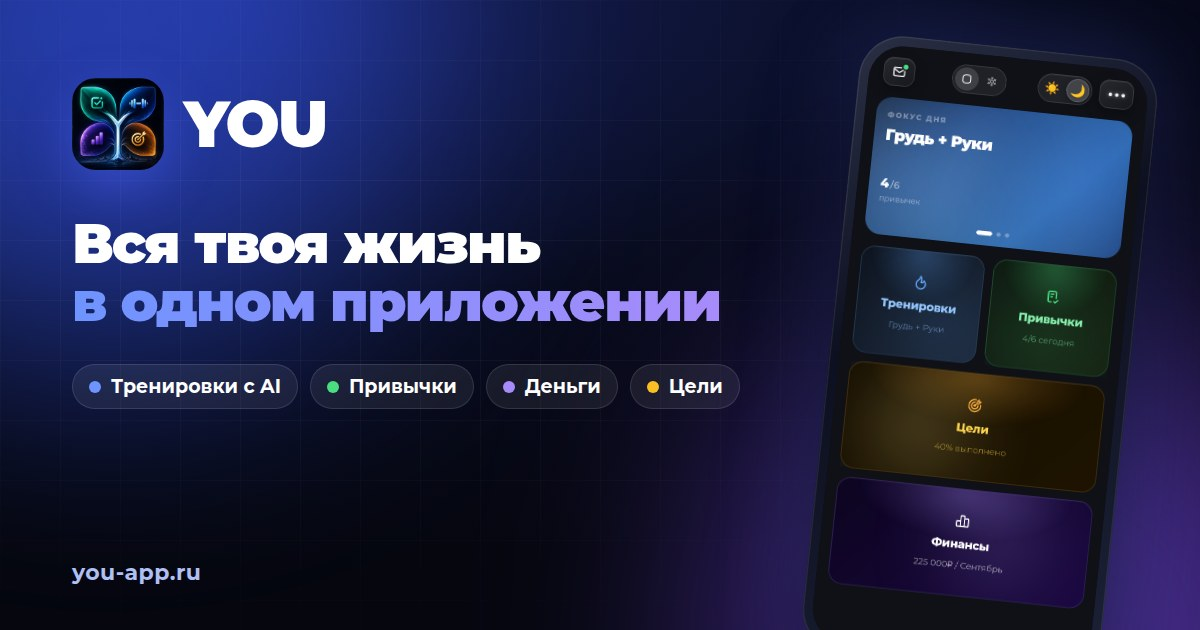
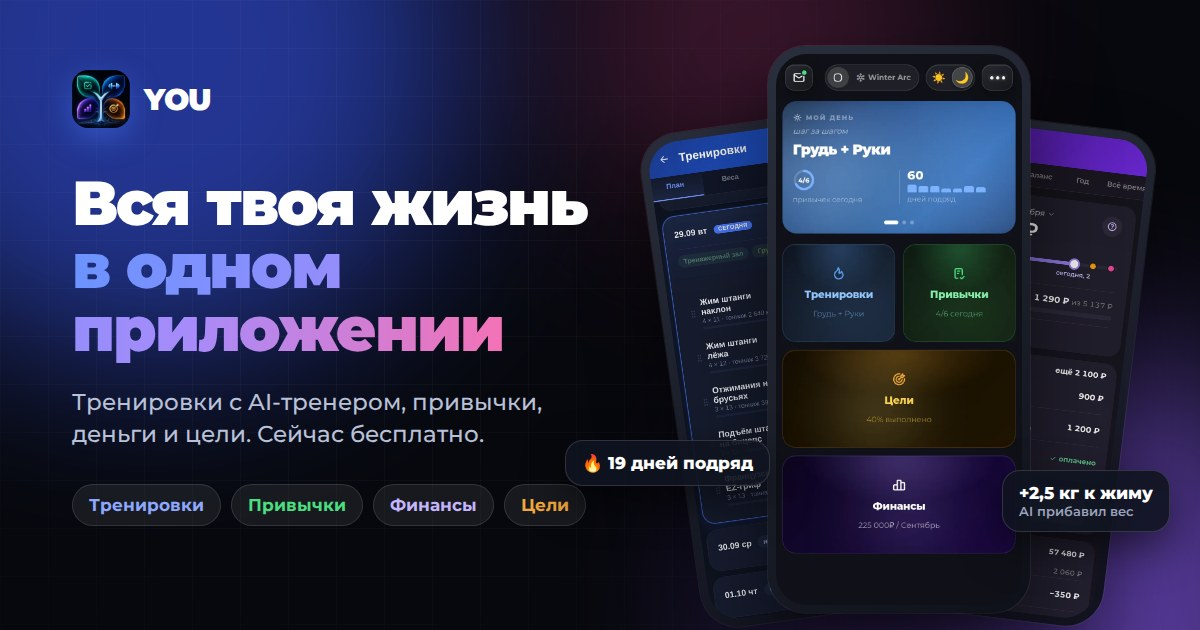
Лендинг v2: живой чат с AI, орбита клиентов, ленты экранов, манифест, новые тексты и превью
- AI-тренер: в телефоне идёт живой диалог («колено ноет», «жим стоит»), после ответа меняется карточка плана
- Тренерам: клиенты плывут по орбите вокруг кабинета, по очереди подсвечиваются
- «Всё это уже работает»: две ленты экранов едут в разные стороны при прокрутке
- Манифест «Зачем YOU»: слова проявляются при прокрутке
- Тексты: короче и под новые функции (вес одной кнопкой, серия как в Duolingo, помощник, цель в платежи, расписание у клиента, новая формула «Свободно»)
- Ровный текст на телефоне: неразрывные пробелы после предлогов, балансировка заголовков, заголовок первого экрана меньше на узких экранах, списки функций в одну колонку
- Новая картинка превью ссылки (og-you.jpg?v=2)

Claude-Session: https://claude.ai/code/session_016pRHzteEXK6Z1ptN93seuv

diff --git a/start.html b/start.html
@@ -35,11 +35,11 @@
 <meta property="og:url" content="https://you-app.ru/start">
 <meta property="og:title" content="YOU · вся твоя жизнь в одном приложении">
 <meta property="og:description" content="Тренировки с AI-тренером, привычки, деньги и цели. Сейчас бесплатно.">
-<meta property="og:image" content="https://you-app.ru/img/og-you.jpg">
+<meta property="og:image" content="https://you-app.ru/img/og-you.jpg?v=2">
 <meta property="og:image:width" content="1200">
 <meta property="og:image:height" content="630">
 <meta name="twitter:card" content="summary_large_image">
-<meta name="twitter:image" content="https://you-app.ru/img/og-you.jpg">
+<meta name="twitter:image" content="https://you-app.ru/img/og-you.jpg?v=2">
 <meta name="theme-color" content="#07090F">
 <link rel="icon" href="favicon.ico" sizes="any">
 <link rel="icon" type="image/png" sizes="32x32" href="img/fav/tab-32.png">
@@ -692,6 +692,96 @@ footer{border-top:1px solid var(--line);padding:34px 0 calc(34px + env(safe-area
 .m-shot{display:none;width:100%;max-width:300px;margin:0 auto}
 .m-shot .phone{position:relative;width:100%}
 @media (max-width:560px) and (max-height:720px){.ins-phone-wrap{height:380px}.ins-phone{transform:scale(.58)}.merge-scene{height:40vh}}
+
+/* ═══ v2: живой чат с AI, орбита клиентов, ленты экранов, текст по словам ═══ */
+/* AI: живой диалог в телефоне + карточка плана, которая меняется */
+.aid{position:relative;height:640px;display:flex;align-items:center;justify-content:center}
+@media (min-width:981px){.ai-x{align-items:start}.ai-x .aid{position:sticky;top:90px}}
+.aid .phone{position:relative;width:300px;z-index:2}
+.aid-scr{display:flex;flex-direction:column;background:#0E1220!important}
+.aid-top{display:flex;align-items:center;gap:10px;white-space:nowrap;padding:46px 16px 12px;background:linear-gradient(180deg,#2C4FA8,#22408C);color:#fff;font-weight:800;font-size:15px}
+.aid-top i{font-size:18px;opacity:.8}.aid-top span{margin-left:auto;font-size:11px;font-weight:700;padding:3px 8px;border-radius:999px;background:rgba(255,255,255,.16)}
+.aid-list{flex:1;display:flex;flex-direction:column;justify-content:flex-end;gap:8px;padding:12px 12px 6px;overflow:hidden}
+.aid-m{max-width:86%;padding:9px 12px;border-radius:16px;font-size:12.5px;line-height:1.45;opacity:0;transform:translateY(10px) scale(.98);transition:opacity .4s,transform .5s var(--ease)}
+.aid-m.on{opacity:1;transform:none}
+.aid-m.me{align-self:flex-end;background:#3A62C9;color:#fff;border-bottom-right-radius:5px}
+.aid-m.bot{align-self:flex-start;background:#1B2236;border:1px solid rgba(255,255,255,.07);color:#E6EAF5;border-bottom-left-radius:5px}
+.aid-m b{color:#fff}
+.aid-dots{display:inline-flex;gap:4px;padding:2px 0}.aid-dots i{width:6px;height:6px;border-radius:50%;background:#8EA8FF;animation:aidDot 1s infinite}.aid-dots i:nth-child(2){animation-delay:.15s}.aid-dots i:nth-child(3){animation-delay:.3s}
+@keyframes aidDot{0%,80%,100%{opacity:.3;transform:none}40%{opacity:1;transform:translateY(-3px)}}
+.aid-in{display:flex;align-items:center;gap:8px;margin:6px 10px 16px;padding:10px 12px;border-radius:14px;background:#161C2C;border:1px solid rgba(255,255,255,.08);font-size:12.5px;color:#E6EAF5;min-height:40px}
+.aid-in span{flex:1;min-width:0;white-space:nowrap;overflow:hidden;text-overflow:ellipsis}.aid-in span:empty::before{content:'Спроси тренера…';color:#5D6680}
+.aid-in i{width:28px;height:28px;border-radius:9px;background:#3A62C9;color:#fff;display:inline-flex;align-items:center;justify-content:center;font-size:15px;flex-shrink:0}
+.aid-plan{position:absolute;right:-30px;top:120px;z-index:3;width:250px;padding:14px;border-radius:20px;background:rgba(18,23,38,.92);border:1px solid rgba(110,139,255,.35);backdrop-filter:blur(14px);-webkit-backdrop-filter:blur(14px);box-shadow:0 24px 60px rgba(0,0,0,.5)}
+.aid-plan-h{display:flex;align-items:center;gap:8px;font-size:12px;color:var(--soft);font-weight:700;margin-bottom:8px}.aid-plan-h i{color:#8EA8FF;font-size:16px}.aid-plan-h b{color:#fff}
+.aid-row{display:flex;justify-content:space-between;gap:8px;padding:7px 0;border-top:1px solid rgba(255,255,255,.06);font-size:12px;transition:background .4s}
+.aid-row:first-of-type{border-top:none}.aid-row span{color:#D7DCEA;min-width:0}.aid-row b{white-space:nowrap;color:#fff}
+.aid-row.swap{animation:aidSwap 1.6s var(--ease)}
+@keyframes aidSwap{0%{background:transparent}20%{background:rgba(74,222,128,.18)}100%{background:transparent}}
+.aid-row.swap b{color:#4ADE80}
+.aid-tag{position:absolute;left:-10px;top:70px;z-index:3}
+
+/* Тренерам: клиенты на орбите вокруг кабинета */
+.orbit{position:relative;width:min(520px,100%);aspect-ratio:1;margin:0 auto;--R:200px}
+.orbit .ring{position:absolute;inset:6%;border-radius:50%;border:1px dashed rgba(139,92,246,.35)}
+.orbit .ring.r2{inset:22%;border-style:solid;border-color:rgba(74,124,255,.18)}
+.orb-core{position:absolute;left:50%;top:50%;transform:translate(-50%,-50%);width:150px;height:150px;border-radius:50%;display:flex;flex-direction:column;align-items:center;justify-content:center;gap:4px;text-align:center;background:radial-gradient(circle at 50% 35%,rgba(74,124,255,.35),rgba(20,24,40,.95) 70%);border:1px solid rgba(139,92,246,.45);box-shadow:0 0 60px rgba(74,124,255,.35);z-index:2}
+.orb-core img{width:44px;height:44px;border-radius:13px}.orb-core b{font-size:15px}.orb-core small{font-size:11.5px;color:var(--soft)}
+.orb-spin{position:absolute;inset:0}
+.orb-n{position:absolute;left:50%;top:50%;width:0;height:0;will-change:transform}
+.orb-n>div{position:absolute;transform:translate(-50%,-50%);display:flex;align-items:center;gap:8px;padding:7px 12px 7px 7px;border-radius:999px;background:rgba(18,22,34,.92);border:1px solid var(--line2);white-space:nowrap;box-shadow:0 10px 30px rgba(0,0,0,.4);transition:border-color .4s,box-shadow .4s}
+.orb-n .av{width:30px;height:30px;border-radius:50%;display:inline-flex;align-items:center;justify-content:center;font-weight:800;font-size:13px;color:#fff;background:var(--c);flex-shrink:0}
+.orb-n b{display:block;font-size:12.5px}.orb-n small{display:block;font-size:11px;color:var(--soft)}
+.orb-n.hot>div{border-color:var(--c);box-shadow:0 0 0 4px color-mix(in srgb,var(--c) 25%,transparent),0 10px 30px rgba(0,0,0,.4)}
+@keyframes orbSpin{to{transform:rotate(360deg)}}
+
+/* Ленты экранов: едут в разные стороны при прокрутке */
+.lanes-sec{padding:70px 0 60px;overflow:hidden}
+.lanes{display:flex;flex-direction:column;gap:14px;margin-top:40px}
+.lane{display:flex;gap:14px;width:max-content;will-change:transform}
+.lane img{width:200px;aspect-ratio:390/844;object-fit:cover;object-position:top;border-radius:26px;border:1px solid rgba(255,255,255,.08);box-shadow:0 20px 40px rgba(0,0,0,.35);background:#11141C}
+
+/* Текст проявляется по словам при прокрутке */
+.manifest{padding:90px 0}
+.manifest p{max-width:860px;margin:0 auto;text-align:center;font-size:clamp(24px,3.4vw,42px);line-height:1.3;font-weight:800;letter-spacing:-.02em;text-wrap:balance}
+.manifest .w{opacity:.16;transition:opacity .25s}
+.manifest .w.on{opacity:1}
+.manifest .w.g{background:var(--grad);-webkit-background-clip:text;background-clip:text;color:transparent}
+
+/* Ровный текст на телефоне: без висячих предлогов и рваных строк */
+h1,h2,h3,h4{text-wrap:balance}
+p,li,.sec-lead,.lead{text-wrap:pretty;hyphens:manual;-webkit-hyphens:manual;overflow-wrap:normal;word-break:normal}
+
+@media (max-width:980px){
+  .ai-x{display:flex!important;flex-direction:column;gap:0}
+  .ai-x>div:first-child{display:contents}
+  .ai-x .eyebrow{order:1;align-self:flex-start}.ai-x h2{order:2}.ai-x .sec-lead{order:3}.ai-x .aid{order:4;margin:26px 0 8px}.ai-x .ai-card{order:5}
+  .aid{height:auto;flex-direction:column}
+  .aid .phone{width:260px}
+  .aid-top span{display:none}
+  .aid-plan{position:relative;right:auto;top:auto;margin:14px auto 0;width:min(300px,92%)}
+  .orbit{--R:min(150px,36vw)}
+  .orbit{aspect-ratio:1/1.12}
+  .orb-core{width:96px;height:96px;gap:2px}.orb-core img{width:30px;height:30px;border-radius:9px}.orb-core b{font-size:12px}.orb-core small{font-size:10px}
+  .orb-n>div{padding:4px 9px 4px 4px;gap:6px}.orb-n .av{width:24px;height:24px;font-size:11px}.orb-n b{font-size:11px}.orb-n small{font-size:9.5px}
+  .lane img{width:140px;border-radius:20px}
+  .lanes{gap:10px}.lane{gap:10px}
+  .manifest{padding:60px 0}
+}
+@media (max-width:400px){ .aid .phone{width:240px} }
+@media (max-width:430px){ h1{font-size:clamp(30px,9vw,36px)} }
+@media (max-width:560px){
+  .coach-sec .ai-feats{grid-template-columns:1fr!important;gap:8px!important}
+  .coach-sec .ai-feat{display:grid;grid-template-columns:28px 1fr;column-gap:12px;align-items:start;padding:12px 14px!important}
+  .coach-sec .ai-feat i{grid-row:span 2;font-size:20px;margin-top:2px}
+  .coach-sec .ai-feat b{margin:0 0 2px!important;font-size:14px!important}
+  .coach-sec .ai-feat span{font-size:12.5px!important;line-height:1.45!important}
+  #ai .ai-feats{grid-template-columns:1fr;gap:8px}
+  #ai .ai-feat{display:grid;grid-template-columns:28px 1fr;column-gap:12px;align-items:start;padding:12px 14px}
+  #ai .ai-feat i{grid-row:span 2;font-size:20px;margin-top:2px}
+  #ai .ai-feat b{margin:0 0 2px}
+}
+
 @media (prefers-reduced-motion:reduce){*,*::before,*::after{animation:none!important;transition:none!important}.rv{opacity:1;transform:none;filter:none}h1 .line span{transform:none}.lead,.hero-cta,.hero-note{opacity:1}}
 </style>
 </head>
@@ -813,29 +903,29 @@ footer{border-top:1px solid var(--line);padding:34px 0 calc(34px + env(safe-area
       <div class="step" data-img="training_plan" data-glow="#4A7CFF" style="--c:#60A5FA;--glow:rgba(74,124,255,.4)">
         <div class="step-ico" style="background:rgba(74,124,255,.16);color:#8EA8FF"><i class="ti ti-barbell"></i></div>
         <h3>Тренировки,<br>которые растут вместе с тобой</h3>
-        <p>План на 8 недель. Каждый подход записан, а прогресс считается сам: сколько поднял за неделю, как вырос вес, рабочий вес по каждому упражнению.</p>
-        <ul class="ticks"><li><i class="ti ti-check"></i>Силуэт показывает, какие мышцы работают</li><li><i class="ti ti-check"></i>Вес с прошлой тренировки подставляется сам</li><li><i class="ti ti-check"></i>Зал, бег, теннис, шаги, растяжка</li><li><i class="ti ti-check"></i>Калькулятор максимума на один раз</li></ul>
+        <p>План на 8 недель. Записываешь подходы, а прогресс считается сам: сколько поднял за неделю и как растёт рабочий вес в каждом упражнении.</p>
+        <ul class="ticks"><li><i class="ti ti-check"></i>Силуэт показывает, какие мышцы работают</li><li><i class="ti ti-check"></i>Вес прошлого раза одной кнопкой</li><li><i class="ti ti-check"></i>Зал, бег, теннис, шаги, растяжка</li><li><i class="ti ti-check"></i>Калькулятор максимума на один раз</li></ul>
         <div class="m-shot"><div class="phone"><div class="scr"><img src="img/landing/training_plan.webp" alt="" loading="lazy"></div></div></div>
       </div>
       <div class="step" data-img="habits_grid" data-glow="#22C55E" style="--c:#4ADE80;--glow:rgba(34,197,94,.35)">
         <div class="step-ico" style="background:rgba(34,197,94,.16);color:#4ADE80"><i class="ti ti-checklist"></i></div>
         <h3>Привычки,<br>которые не отпускают</h3>
-        <p>Отмечай одним касанием. Серия дней растёт с каждой отметкой, а процент за месяц честно показывает, что подтянуть.</p>
-        <ul class="ticks"><li><i class="ti ti-check"></i>Каждый день, по будням или 3 раза в неделю</li><li><i class="ti ti-check"></i>Серии дней подряд с огоньком</li><li><i class="ti ti-check"></i>Колесо жизни: оценка месяца по 8 сферам</li></ul>
+        <p>Отмечаешь одним касанием. Серия растёт каждый день, а процент за месяц честно показывает, что подтянуть.</p>
+        <ul class="ticks"><li><i class="ti ti-check"></i>Каждый день, по будням или 3 раза в неделю</li><li><i class="ti ti-check"></i>Серия дней как в Duolingo: огонь, неделя, рекорд</li><li><i class="ti ti-check"></i>Колесо жизни: оценка месяца по 8 сферам</li></ul>
         <div class="m-shot"><div class="phone"><div class="scr"><img src="img/landing/habits_grid.webp" alt="" loading="lazy"></div></div></div>
       </div>
       <div class="step" data-img="finance_spend" data-glow="#8B5CF6" style="--c:#A78BFA;--glow:rgba(139,92,246,.4)">
         <div class="step-ico" style="background:rgba(139,92,246,.16);color:#A78BFA"><i class="ti ti-chart-bar"></i></div>
         <h3>Деньги<br>под контролем</h3>
-        <p>Одна цифра: сколько свободно до зарплаты или до конца месяца. И норма на сегодня, чтобы денег точно хватило.</p>
-        <ul class="ticks"><li><i class="ti ti-check"></i>Трата одной строкой: «кофе 420», категория подберётся сама</li><li><i class="ti ti-check"></i>Ближайшие платежи: аренда, связь, подписки</li><li><i class="ti ti-check"></i>Копилка сама откладывает процент с каждого дохода</li><li><i class="ti ti-check"></i>Проверка на импульс перед снятием из копилки</li></ul>
+        <p>Одна цифра: сколько денег свободно до зарплаты. И сколько можно тратить сегодня, чтобы хватило до конца.</p>
+        <ul class="ticks"><li><i class="ti ti-check"></i>Трата одной строкой: «кофе 420», категория подберётся сама</li><li><i class="ti ti-check"></i>Ближайшие платежи: аренда, связь, подписки</li><li><i class="ti ti-check"></i>Копилка сама откладывает процент с каждого дохода</li><li><i class="ti ti-check"></i>Помощник: спроси о своих деньгах обычными словами</li></ul>
         <div class="m-shot"><div class="phone"><div class="scr"><img src="img/landing/finance_spend.webp" alt="" loading="lazy"></div></div></div>
       </div>
       <div class="step" data-img="goals" data-glow="#F2A93B" style="--c:#F2A93B;--glow:rgba(242,169,59,.35)">
         <div class="step-ico" style="background:rgba(242,169,59,.16);color:#F2A93B"><i class="ti ti-target-arrow"></i></div>
         <h3>Цели<br>по сезонам</h3>
-        <p>Раскладываешь желания на весну, лето, осень и зиму с суммами. Видно, сколько уже закрыто и сколько осталось.</p>
-        <ul class="ticks"><li><i class="ti ti-check"></i>Категории и суммы по каждой цели</li><li><i class="ti ti-check"></i>Прогресс года одной полосой</li><li><i class="ti ti-check"></i>Желание из копилки превращается в цель</li></ul>
+        <p>Раскладываешь желания по сезонам и суммам. Видно, сколько уже закрыто и сколько осталось.</p>
+        <ul class="ticks"><li><i class="ti ti-check"></i>Категории и суммы по каждой цели</li><li><i class="ti ti-check"></i>Прогресс года одной полосой</li><li><i class="ti ti-check"></i>Цель одним нажатием уходит в платежи</li></ul>
         <div class="m-shot"><div class="phone"><div class="scr"><img src="img/landing/goals.webp" alt="" loading="lazy"></div></div></div>
       </div>
     </div>
@@ -851,12 +941,21 @@ footer{border-top:1px solid var(--line);padding:34px 0 calc(34px + env(safe-area
   </div>
 </div></section>
 
+<!-- Ленты экранов -->
+<section class="lanes-sec" data-for="me">
+  <div class="wrap center"><span class="eyebrow">Внутри</span><h2 class="rv">Всё это уже работает</h2></div>
+  <div class="lanes" id="lanes">
+    <div class="lane" data-dir="1"></div>
+    <div class="lane" data-dir="-1"></div>
+  </div>
+</section>
+
 <!-- AI-тренер -->
-<section class="ai" id="ai" data-for="me"><div class="wrap ai-grid">
+<section class="ai" id="ai" data-for="me"><div class="wrap ai-grid ai-x">
   <div>
     <span class="eyebrow">AI-тренер</span>
     <h2 class="rv">Личный тренер,<br>который <span class="grad-t">знает твои цифры</span></h2>
-    <p class="sec-lead rv">AI собирает программу из твоих упражнений и весов. Когда идти в зал, решаешь ты. После каждой тренировки он сам подстраивает нагрузку, а в чате отвечает по твоим цифрам, а не общими советами.</p>
+    <p class="sec-lead rv">Собирает программу из твоих упражнений и весов и сам ведёт нагрузку после каждой тренировки. В чате отвечает по твоим цифрам, а не общими советами.</p>
     <div class="ai-card rv" style="margin-top:28px">
       <div class="chart" id="chart">
         <div class="chart-h"><b>Жим штанги лёжа</b><span>добрал 12, вес вверх</span></div>
@@ -870,11 +969,11 @@ footer{border-top:1px solid var(--line);padding:34px 0 calc(34px + env(safe-area
         </svg>
       </div>
       <div class="ai-feats">
-        <div class="ai-feat"><i class="ti ti-calendar-plus"></i><b>Ты решаешь, когда</b><span>Ставишь тренировку на сегодня или любой день. Не нравится, убираешь одним нажатием</span></div>
+        <div class="ai-feat"><i class="ti ti-calendar-plus"></i><b>Ты решаешь, когда</b><span>Ставишь тренировку на любой день. Не подошла, убираешь одним нажатием</span></div>
         <div class="ai-feat"><i class="ti ti-stairs-up"></i><b>Прогрессия по факту</b><span>Добрал повторы, вес вверх. Недобрал дважды, вес ниже. Сменил цель, вес пересчитается</span></div>
         <div class="ai-feat"><i class="ti ti-wand"></i><b>Твои связки</b><span>Спина с трицепсом или ноги с плечами: как ты привык. Мышцу можно перенести нажатием</span></div>
         <div class="ai-feat"><i class="ti ti-weight"></i><b>Реальные веса</b><span>Учитывает блины и гантели твоего зала: никаких 82,5, если их нет</span></div>
-        <div class="ai-feat"><i class="ti ti-message-chatbot"></i><b>Чат с тренером</b><span>«Почему не растёт жим?» Ответит по твоим весам и повторам и подскажет, что поменять</span></div>
+        <div class="ai-feat"><i class="ti ti-message-chatbot"></i><b>Чат с тренером</b><span>«Почему стоит жим?» Ответит по твоим весам, а тренировку из ответа поставит в план</span></div>
         <div class="ai-feat"><i class="ti ti-gender-bigender"></i><b>Для него и для неё</b><span>Упор на всё тело или на ноги и ягодицы. Без длинных анкет</span></div>
       </div>
       <div class="goal-pills"><span>Цель:</span><b>Масса 8–12</b><b>Сила 4–6</b><b>Рельеф 12–15</b></div>
@@ -888,9 +987,13 @@ footer{border-top:1px solid var(--line);padding:34px 0 calc(34px + env(safe-area
       </div>
     </div>
   </div>
-  <div class="ai-phones rv rv-r">
-    <div class="phone pa float"><div class="scr"><img src="img/landing/ai_chat.webp" alt="Чат с AI-тренером" loading="lazy"></div></div>
-    <div class="phone pb float"><div class="scr"><img src="img/landing/ai_plan.webp" alt="План от AI" loading="lazy"></div></div>
+  <div class="aid rv rv-r" id="aid" aria-label="Пример разговора с AI-тренером">
+    <div class="phone float"><div class="scr aid-scr">
+      <div class="aid-top"><i class="ti ti-message-chatbot"></i>Чат с тренером<span>знает твои веса</span></div>
+      <div class="aid-list" id="aid-list"></div>
+      <div class="aid-in"><span id="aid-typing"></span><i class="ti ti-send"></i></div>
+    </div></div>
+    <div class="aid-plan" id="aid-plan"><div class="aid-plan-h"><i class="ti ti-calendar-event"></i><b id="aid-plan-t">Сегодня · ноги</b></div><div id="aid-rows"></div></div>
   </div>
 </div></section>
 
@@ -912,9 +1015,17 @@ footer{border-top:1px solid var(--line);padding:34px 0 calc(34px + env(safe-area
 
 <!-- Для тренеров -->
 <section class="coach-sec" id="c-feat" data-for="coach"><div class="wrap ai-grid">
-  <div class="ai-phones coach-phones rv">
-    <div class="phone pa float"><div class="scr"><img src="img/landing/coach_client.webp" alt="Карточка клиента в кабинете тренера" loading="lazy"></div></div>
-    <div class="phone pb float"><div class="scr"><img src="img/landing/coach_sched.webp" alt="Расписание тренера" loading="lazy"></div></div>
+  <div class="orbit rv" id="orbit" aria-label="Клиенты вокруг кабинета тренера">
+    <div class="ring"></div><div class="ring r2"></div>
+    <div class="orb-spin">
+      <div class="orb-n" style="--a:-90deg;--c:#4A7CFF"><div><span class="av">А</span><span><b>Алексей</b><small>рекорд: жим 85×8</small></span></div></div>
+      <div class="orb-n" style="--a:-30deg;--c:#34D399"><div><span class="av">М</span><span><b>Мария</b><small>сделала ноги</small></span></div></div>
+      <div class="orb-n" style="--a:30deg;--c:#F2A93B"><div><span class="av">И</span><span><b>Игорь</b><small>сегодня в 18:00</small></span></div></div>
+      <div class="orb-n" style="--a:90deg;--c:#F87171"><div><span class="av">О</span><span><b>Олег</b><small>пауза 5 дней</small></span></div></div>
+      <div class="orb-n" style="--a:150deg;--c:#A78BFA"><div><span class="av">Е</span><span><b>Ева</b><small>талия −2 см</small></span></div></div>
+      <div class="orb-n" style="--a:210deg;--c:#2DD4BF"><div><span class="av">Д</span><span><b>Дима</b><small>новый план</small></span></div></div>
+    </div>
+    <div class="orb-core"><img src="icon.png" alt=""><b>Ваш кабинет</b><small>6 клиентов</small></div>
   </div>
   <div>
     <span class="eyebrow">Возможности</span>
@@ -923,7 +1034,7 @@ footer{border-top:1px solid var(--line);padding:34px 0 calc(34px + env(safe-area
     <div class="ai-feats rv">
       <div class="ai-feat"><i class="ti ti-layout-dashboard"></i><b>Главная и лента</b><span>Кто тренируется сегодня, рекорды, пропуски и комментарии. Слайды и плитки настраиваете под себя</span></div>
       <div class="ai-feat"><i class="ti ti-chart-bar"></i><b>Обзор клиента</b><span>Оценка по четырём опорам: регулярность, сила, нагрузка и тело. Плюс что сделать дальше</span></div>
-      <div class="ai-feat"><i class="ti ti-calendar-event"></i><b>Расписание</b><span>Записи с временем и повтором каждую неделю. Тренировки клиентов по плану подтягиваются сами</span></div>
+      <div class="ai-feat"><i class="ti ti-calendar-event"></i><b>Расписание</b><span>Записи с временем и повтором. Клиент видит время тренировки у себя в приложении</span></div>
       <div class="ai-feat"><i class="ti ti-ruler-measure"></i><b>Замеры тела</b><span>Вес, обхваты и пропорции с выводами. Замерили в зале, внесли сами</span></div>
       <div class="ai-feat"><i class="ti ti-template"></i><b>Шаблоны программ</b><span>Собрали раз, назначаете в два клика. Веса подставятся из истории клиента</span></div>
       <div class="ai-feat"><i class="ti ti-send"></i><b>Итоги недели</b><span>Цифры считаются сами, вы добавляете комментарий, клиент видит в приложении</span></div>
@@ -1039,7 +1150,7 @@ footer{border-top:1px solid var(--line);padding:34px 0 calc(34px + env(safe-area
     <details class="qa rv"><summary>Я тренирую в зале, это подойдёт?<i class="ti ti-plus"></i></summary><p>Да. Отмечайте проведённые тренировки галочкой в плане клиента, вносите веса и замеры сами. Посещаемость и прогресс посчитаются так же, как у онлайн-клиентов.</p></details>
     <details class="qa rv"><summary>AI не заменит меня для клиента?<i class="ti ti-plus"></i></summary><p>Нет. Когда у клиента есть тренер, его собственный AI-план выключается, чтобы не было двух разных планов. AI работает на вас: подсказывает прогрессию и плато, а решение принимаете вы.</p></details>
     <details class="qa rv"><summary>Как подключить клиента?<i class="ti ti-plus"></i></summary><p>Клиент регистрируется в YOU, в меню выбирает «Подключить тренера» и создаёт ключ с фамилией и именем. Вы нажимаете «Добавить» в шапке кабинета и вводите ключ. Ключ одноразовый и действует сутки. Второй способ: ваша ссылка-приглашение.</p></details>
-    <details class="qa rv"><summary>Есть расписание занятий?<i class="ti ti-plus"></i></summary><p>Да, плитка «Расписание»: неделя, записи с временем, повтор каждую неделю и отметка «Провёл». Время можно сразу написать клиенту в план, он увидит его над тренировкой.</p></details>
+    <details class="qa rv"><summary>Есть расписание занятий?<i class="ti ti-plus"></i></summary><p>Да, плитка «Расписание»: неделя, записи со временем, повтор каждую неделю и отметка «Провёл». Клиент сразу видит запись у себя: в плане и на главном экране «С тренером в 18:00».</p></details>
     <details class="qa rv"><summary>Сколько это стоит?<i class="ti ti-plus"></i></summary><p>Сейчас идёт ранний доступ: кабинет бесплатный, до 50 клиентов и все функции. Для клиента приложение тоже бесплатное.</p></details>
   </div>
   <div class="center" style="margin-top:40px"><a class="btn btn-main mag" href="coach.html"><i class="ti ti-user-star"></i> Открыть кабинет тренера</a></div>
@@ -1167,6 +1278,11 @@ footer{border-top:1px solid var(--line);padding:34px 0 calc(34px + env(safe-area
   <div class="center" style="margin-top:34px"><a class="btn btn-main mag" href="./#/register"><i class="ti ti-rocket"></i> Начать бесплатно</a></div>
 </div></section>
 
+<!-- Зачем YOU: текст проявляется по словам -->
+<section class="manifest" data-for="me"><div class="wrap">
+  <p id="manifest">Ты и так знаешь, что делать. Не хватает одного места, где видно всё сразу: растут ли веса, держатся ли привычки, сколько денег свободно и сколько осталось до цели. YOU собирает это вместе и каждый день подсказывает <span data-g>следующий шаг.</span></p>
+</div></section>
+
 <!-- CTA -->
 <section class="cta" id="get" data-for="me"><div class="wrap">
   <div class="cta-box rv rv-s">
@@ -1192,8 +1308,8 @@ footer{border-top:1px solid var(--line);padding:34px 0 calc(34px + env(safe-area
     <details class="qa rv"><summary>Это правда бесплатно?<i class="ti ti-plus"></i></summary><p>Да. Первые 1 000 пользователей получают полный доступ бесплатно. Карта не нужна.</p></details>
     <details class="qa rv"><summary>Где скачать? В App Store нет.<i class="ti ti-plus"></i></summary><p>Скачивать ничего не нужно. YOU открывается в браузере и ставится на экран телефона как обычное приложение: на iPhone через «Поделиться» → «На экран Домой», на Android через меню браузера.</p></details>
     <details class="qa rv"><summary>Кто видит мои данные?<i class="ti ti-plus"></i></summary><p>Только ты. Данные каждого пользователя хранятся отдельно, доступ к ним закрыт правилами базы на сервере. Тренер, если ты его подключишь, видит только тренировки.</p></details>
-    <details class="qa rv"><summary>Как работает AI-тренер?<i class="ti ti-plus"></i></summary><p>AI смотрит твои записи: какие мышцы ты тренируешь вместе, какие упражнения и веса. Добавляет то, чего не хватает, и собирает тренировки по кругу: 1, 2, 3 и снова 1. В какие дни их делать, решаешь ты. Дальше он сам ведёт вес под цель (масса, сила или рельеф): добрал повторы, вес растёт, не добрал дважды, вес чуть ниже. Учитывает блины и гантели твоего зала и замечает, где вес встал. В чате можно спросить что угодно о своих тренировках, 20 сообщений в месяц бесплатно.</p></details>
-    <details class="qa rv"><summary>Как понять, сколько можно тратить?<i class="ti ti-plus"></i></summary><p>Во вкладке «Расходы» одна цифра: сколько свободно до зарплаты или до конца месяца, выбираешь сам. Из дохода вычитаются копилка, обязательные платежи и то, что уже потрачено. Остаток делится на оставшиеся дни, и видно норму на сегодня. Трату записываешь одной строкой, например «такси 350», категорию приложение подберёт само.</p></details>
+    <details class="qa rv"><summary>Как работает AI-тренер?<i class="ti ti-plus"></i></summary><p>AI смотрит твои записи: какие мышцы ты тренируешь вместе, какие упражнения и веса. Собирает тренировки по кругу, а в какие дни их делать, решаешь ты. Дальше сам ведёт вес под цель: масса, сила или рельеф. Добрал повторы, вес растёт. Не добрал дважды, вес чуть ниже. Учитывает блины и гантели твоего зала. В чате отвечает на любой вопрос о твоих тренировках, 20 сообщений в месяц.</p></details>
+    <details class="qa rv"><summary>Как понять, сколько можно тратить?<i class="ti ti-plus"></i></summary><p>Во вкладке «Расходы» одна цифра: сколько свободно до зарплаты или до конца месяца. Это заработанное минус копилка и то, что уже потрачено. Остаток делится на оставшиеся дни, и видно, сколько можно тратить сегодня. Трату пишешь одной строкой, например «такси 350», категорию приложение подберёт само. А помощнику можно задать вопрос словами: «сколько я трачу на кафе за год?»</p></details>
     <details class="qa rv"><summary>Я тренер. Как вести клиентов?<i class="ti ti-plus"></i></summary><p>Для тренеров есть отдельный кабинет: переключите сайт вверху на «Для тренеров» или откройте его сразу по ссылке coach.html. Клиент ставит YOU, создаёт в меню ключ доступа и присылает вам, либо переходит по вашей ссылке. Вы видите только его тренировки, ведёте план, отмечаете тренировки в зале и отправляете итоги недели. До 50 клиентов бесплатно.</p></details>
     <details class="qa rv"><summary>Можно пользоваться на нескольких устройствах?<i class="ti ti-plus"></i></summary><p>Да. Войди под своим email на телефоне и на компьютере, данные синхронизируются автоматически.</p></details>
     <details class="qa rv"><summary>Что будет, когда места закончатся?<i class="ti ti-plus"></i></summary><p>Регистрация закроется, а новые пользователи смогут получить личный инвайт через поддержку. Те, кто уже внутри, продолжают пользоваться как раньше.</p></details>
@@ -1456,5 +1572,86 @@ footer{border-top:1px solid var(--line);padding:34px 0 calc(34px + env(safe-area
 try{var q=new URLSearchParams(location.search),r=q.get('ref'),t=q.get('tref');
 if(r&&/^[A-Za-z0-9_-]{2,64}$/.test(r)&&!localStorage.getItem('you_ref'))localStorage.setItem('you_ref',JSON.stringify({by:r,kind:'friend',at:Date.now()}));
 if(t&&/^[A-Za-z0-9_-]{2,64}$/.test(t))localStorage.setItem('you_tref',t);}catch(e){}</script>
+<script>
+/* ═══ v2: AI-диалог, орбита, ленты, текст по словам ═══ */
+(function(){
+  var reduce = matchMedia('(prefers-reduced-motion: reduce)').matches;
+  var esc = function(t){ return String(t).replace(/[&<>"]/g, function(c){ return {'&':'&amp;','<':'&lt;','>':'&gt;','"':'&quot;'}[c]; }); };
+
+  /* Типограф: неразрывный пробел после коротких слов и перед тире/«—»-заменителями, чтобы предлоги не висели в конце строки */
+  (function(){
+    var re = /(^|[\s(«"])((?:[а-яёА-ЯЁa-zA-Z]{1,2}|без|для|над|под|при|про|что|как|или|это|всё|все|ещё|уже|его|её|них))\s+(?=\S)/g;
+    var w = document.createTreeWalker(document.body, NodeFilter.SHOW_TEXT, { acceptNode: function(n){ var p = n.parentNode && n.parentNode.nodeName; return /SCRIPT|STYLE|TEXTAREA|INPUT|SVG|TEXT/.test(p) ? NodeFilter.FILTER_REJECT : NodeFilter.FILTER_ACCEPT; } });
+    var ns = []; while (w.nextNode()) ns.push(w.currentNode);
+    ns.forEach(function(n){ var t = n.nodeValue; if (!/\S/.test(t)) return; var t2 = t.replace(re, function(m, a, b){ return a + b + ' '; }).replace(/(\d)\s+(₽|кг|см|сек|мин|дн|раз|из|%)/g, '$1 $2').replace(/\s+(₽)/g, ' $1'); if (t2 !== t) n.nodeValue = t2; });
+  })();
+
+  /* ── AI-тренер: живой диалог ── */
+  var SC = [
+    { plan: 'Сегодня · ноги', rows: [['Присед со штангой','4×8 · 80 кг'],['Выпады с гантелями','3×10 · 14 кг'],['Сгибания ног','3×12 · 35 кг']],
+      q: 'Колено ноет. Что заменить сегодня в ногах?',
+      a: 'Понял, присед сегодня убираем. Поставил <b>жим ногами 4×10 · 150 кг</b>: колено не уходит вперёд, нагрузка та же. Выпады оставь, но шаг короче.',
+      swap: [0, 'Жим ногами', '4×10 · 150 кг'] },
+    { plan: 'Четверг · грудь', rows: [['Жим штанги лёжа','4×8 · 80 кг'],['Жим гантелей наклон','3×10 · 26 кг'],['Разводка в кроссовере','3×12 · 15 кг']],
+      q: 'Почему жим третью неделю стоит на 80?',
+      a: 'Три тренировки подряд 80×8, повторы не растут. Сделаем шаг назад: <b>77,5 кг на 4×10</b>, через две недели вернёмся к 82,5. И добавил отжимания на брусьях.',
+      swap: [0, 'Жим штанги лёжа', '4×10 · 77,5 кг'] }
+  ];
+  var aid = document.getElementById('aid');
+  if (aid) {
+    var list = document.getElementById('aid-list'), typing = document.getElementById('aid-typing'), rowsEl = document.getElementById('aid-rows'), planT = document.getElementById('aid-plan-t');
+    var k = 0, running = false, timers = [];
+    var T = function(f, ms){ timers.push(setTimeout(f, ms)); };
+    function drawPlan(sc){ planT.textContent = sc.plan; rowsEl.innerHTML = sc.rows.map(function(r){ return '<div class="aid-row"><span>' + esc(r[0]) + '</span><b>' + esc(r[1]) + '</b></div>'; }).join(''); }
+    function bubble(cls, html){ var d = document.createElement('div'); d.className = 'aid-m ' + cls; d.innerHTML = html; list.appendChild(d); requestAnimationFrame(function(){ requestAnimationFrame(function(){ d.classList.add('on'); }); }); while (list.children.length > 4) list.removeChild(list.firstChild); return d; }
+    function play(){
+      var sc = SC[k % SC.length]; k++;
+      list.innerHTML = ''; typing.textContent = ''; drawPlan(sc);
+      if (reduce) { bubble('me', esc(sc.q)); bubble('bot', sc.a); var r0 = rowsEl.children[sc.swap[0]]; r0.innerHTML = '<span>' + esc(sc.swap[1]) + '</span><b>' + esc(sc.swap[2]) + '</b>'; return; }
+      var i = 0; (function type(){ if (i <= sc.q.length) { typing.textContent = sc.q.slice(0, i++); T(type, 38); } else T(send, 350); })();
+      function send(){ typing.textContent = ''; bubble('me', esc(sc.q)); var dots = null; T(function(){ dots = bubble('bot', '<span class="aid-dots"><i></i><i></i><i></i></span>'); }, 500);
+        T(function(){ if (dots) dots.innerHTML = sc.a; T(function(){ var r = rowsEl.children[sc.swap[0]]; r.innerHTML = '<span>' + esc(sc.swap[1]) + '</span><b>' + esc(sc.swap[2]) + '</b>'; r.classList.remove('swap'); void r.offsetWidth; r.classList.add('swap'); }, 700); T(play, 6500); }, 2100); }
+    }
+    new IntersectionObserver(function(es){ es.forEach(function(e){ if (e.isIntersecting && !running) { running = true; play(); } else if (!e.isIntersecting && running) { running = false; timers.forEach(clearTimeout); timers = []; } }); }, { threshold: .35 }).observe(aid);
+  }
+
+  /* ── Орбита: по очереди подсвечиваем клиента ── */
+  var orbit = document.getElementById('orbit');
+  if (orbit) { var ns = [].slice.call(orbit.querySelectorAll('.orb-n')), j = 0, oi = null, raf = null, ang = 0, last = 0;
+    /* клиенты плывут по эллипсу, который влезает в ширину экрана; подписи всегда ровно */
+    function place(){ var W = orbit.clientWidth, H = orbit.clientHeight, mw = 0; ns.forEach(function(n){ mw = Math.max(mw, n.firstElementChild.offsetWidth); });
+      var rx = Math.max(60, W / 2 - mw / 2 - 6), ry = Math.max(60, H / 2 - 26);
+      ns.forEach(function(n, q){ var a = ang + q / ns.length * Math.PI * 2 - Math.PI / 2; n.style.transform = 'translate(' + (Math.cos(a) * rx).toFixed(1) + 'px,' + (Math.sin(a) * ry).toFixed(1) + 'px)'; }); }
+    function loop(t){ if (last) ang += Math.min(50, t - last) / 1000 * 0.09; last = t; place(); raf = requestAnimationFrame(loop); }
+    place(); addEventListener('resize', place);
+    new IntersectionObserver(function(es){ es.forEach(function(e){
+      if (e.isIntersecting) { if (!reduce && !raf) { last = 0; raf = requestAnimationFrame(loop); } if (!oi) oi = setInterval(function(){ ns.forEach(function(n, q){ n.classList.toggle('hot', q === j % ns.length); }); j++; }, 1400); }
+      else { if (raf) { cancelAnimationFrame(raf); raf = null; } if (oi) { clearInterval(oi); oi = null; } } }); }).observe(orbit); }
+
+  /* ── Ленты экранов ── */
+  var lanes = document.getElementById('lanes');
+  if (lanes) {
+    var A = ['home_dark','training_plan','ai_plan','habits_grid','finance_spend','goals','ai_insights','training_ww'], B = ['finance_balance','habits_wheel','ai_chat','client_trainer','finance_month','coach_home','finance_year','coach_sched'];
+    var ls = lanes.querySelectorAll('.lane');
+    [A, B].forEach(function(arr, q){ var h = arr.concat(arr).concat(arr).map(function(n){ return '<img src="img/landing/' + n + '.webp" alt="" loading="lazy" decoding="async">'; }).join(''); ls[q].innerHTML = h; });
+    var ticking = false;
+    function lanesMove(){ ticking = false; var r = lanes.getBoundingClientRect(); if (r.bottom < -200 || r.top > innerHeight + 200) return;
+      var off = (innerHeight - r.top) * .35; ls[0].style.transform = 'translate3d(' + (off - 900) + 'px,0,0)'; ls[1].style.transform = 'translate3d(' + (-off - 300) + 'px,0,0)'; }
+    addEventListener('scroll', function(){ if (!ticking) { ticking = true; requestAnimationFrame(lanesMove); } }, { passive: true }); lanesMove();
+  }
+
+  /* ── Манифест: слова проявляются по мере прокрутки ── */
+  var mf = document.getElementById('manifest');
+  if (mf) {
+    var html = '', gWords = mf.querySelector('[data-g]') ? mf.querySelector('[data-g]').textContent : '';
+    var plain = mf.textContent.replace(gWords, '').trim();
+    html = plain.split(/(\s+)/).map(function(t){ return /\s/.test(t) ? t : '<span class="w">' + esc(t) + '</span>'; }).join('') + ' ' + gWords.split(/(\s+)/).map(function(t){ return /\s/.test(t) ? t : '<span class="w g">' + esc(t) + '</span>'; }).join('');
+    mf.innerHTML = html; var ws = mf.querySelectorAll('.w');
+    function mfMove(){ var r = mf.getBoundingClientRect(); var p = (innerHeight * .85 - r.top) / (r.height + innerHeight * .45); p = Math.max(0, Math.min(1, p)); var n = Math.round(p * ws.length * 1.08);
+      ws.forEach(function(w, q){ w.classList.toggle('on', reduce || q < n); }); }
+    addEventListener('scroll', mfMove, { passive: true }); mfMove();
+  }
+})();
+</script>
 </body>
 </html>

diff --git a/coach.html b/coach.html
@@ -35,11 +35,11 @@
 <meta property="og:url" content="https://you-app.ru/coach.html">
 <meta property="og:title" content="YOU · кабинет тренера">
 <meta property="og:description" content="Клиенты, планы, расписание и AI-подсказки в одном кабинете. Клиенты тренируются в приложении YOU.">
-<meta property="og:image" content="https://you-app.ru/img/og-you.jpg">
+<meta property="og:image" content="https://you-app.ru/img/og-you.jpg?v=2">
 <meta property="og:image:width" content="1200">
 <meta property="og:image:height" content="630">
 <meta name="twitter:card" content="summary_large_image">
-<meta name="twitter:image" content="https://you-app.ru/img/og-you.jpg">
+<meta name="twitter:image" content="https://you-app.ru/img/og-you.jpg?v=2">
 <link rel="icon" href="favicon.ico" sizes="any">
 <link rel="icon" type="image/png" sizes="32x32" href="img/fav/tab-32.png">
 <link rel="apple-touch-icon" sizes="180x180" href="img/fav/coach-180.png">

diff --git a/index.html b/index.html
@@ -35,11 +35,11 @@
 <meta property="og:url" content="https://you-app.ru/">
 <meta property="og:title" content="YOU · вся твоя жизнь в одном приложении">
 <meta property="og:description" content="Тренировки с AI-тренером, привычки, деньги и цели. Сейчас бесплатно.">
-<meta property="og:image" content="https://you-app.ru/img/og-you.jpg">
+<meta property="og:image" content="https://you-app.ru/img/og-you.jpg?v=2">
 <meta property="og:image:width" content="1200">
 <meta property="og:image:height" content="630">
 <meta name="twitter:card" content="summary_large_image">
-<meta name="twitter:image" content="https://you-app.ru/img/og-you.jpg">
+<meta name="twitter:image" content="https://you-app.ru/img/og-you.jpg?v=2">
 <link rel="manifest" href="manifest.json">
 <link rel="icon" href="favicon.ico" sizes="any">
 <link rel="icon" type="image/png" sizes="32x32" href="img/fav/tab-32.png">

diff --git a/sw.js b/sw.js
@@ -1,7 +1,7 @@
 /* ============================================================
    SERVICE WORKER — офлайн кеш
    ============================================================ */
-const CACHE = 'nik-system-v152';
+const CACHE = 'nik-system-v153';
 
 const STATIC = [
   './',
